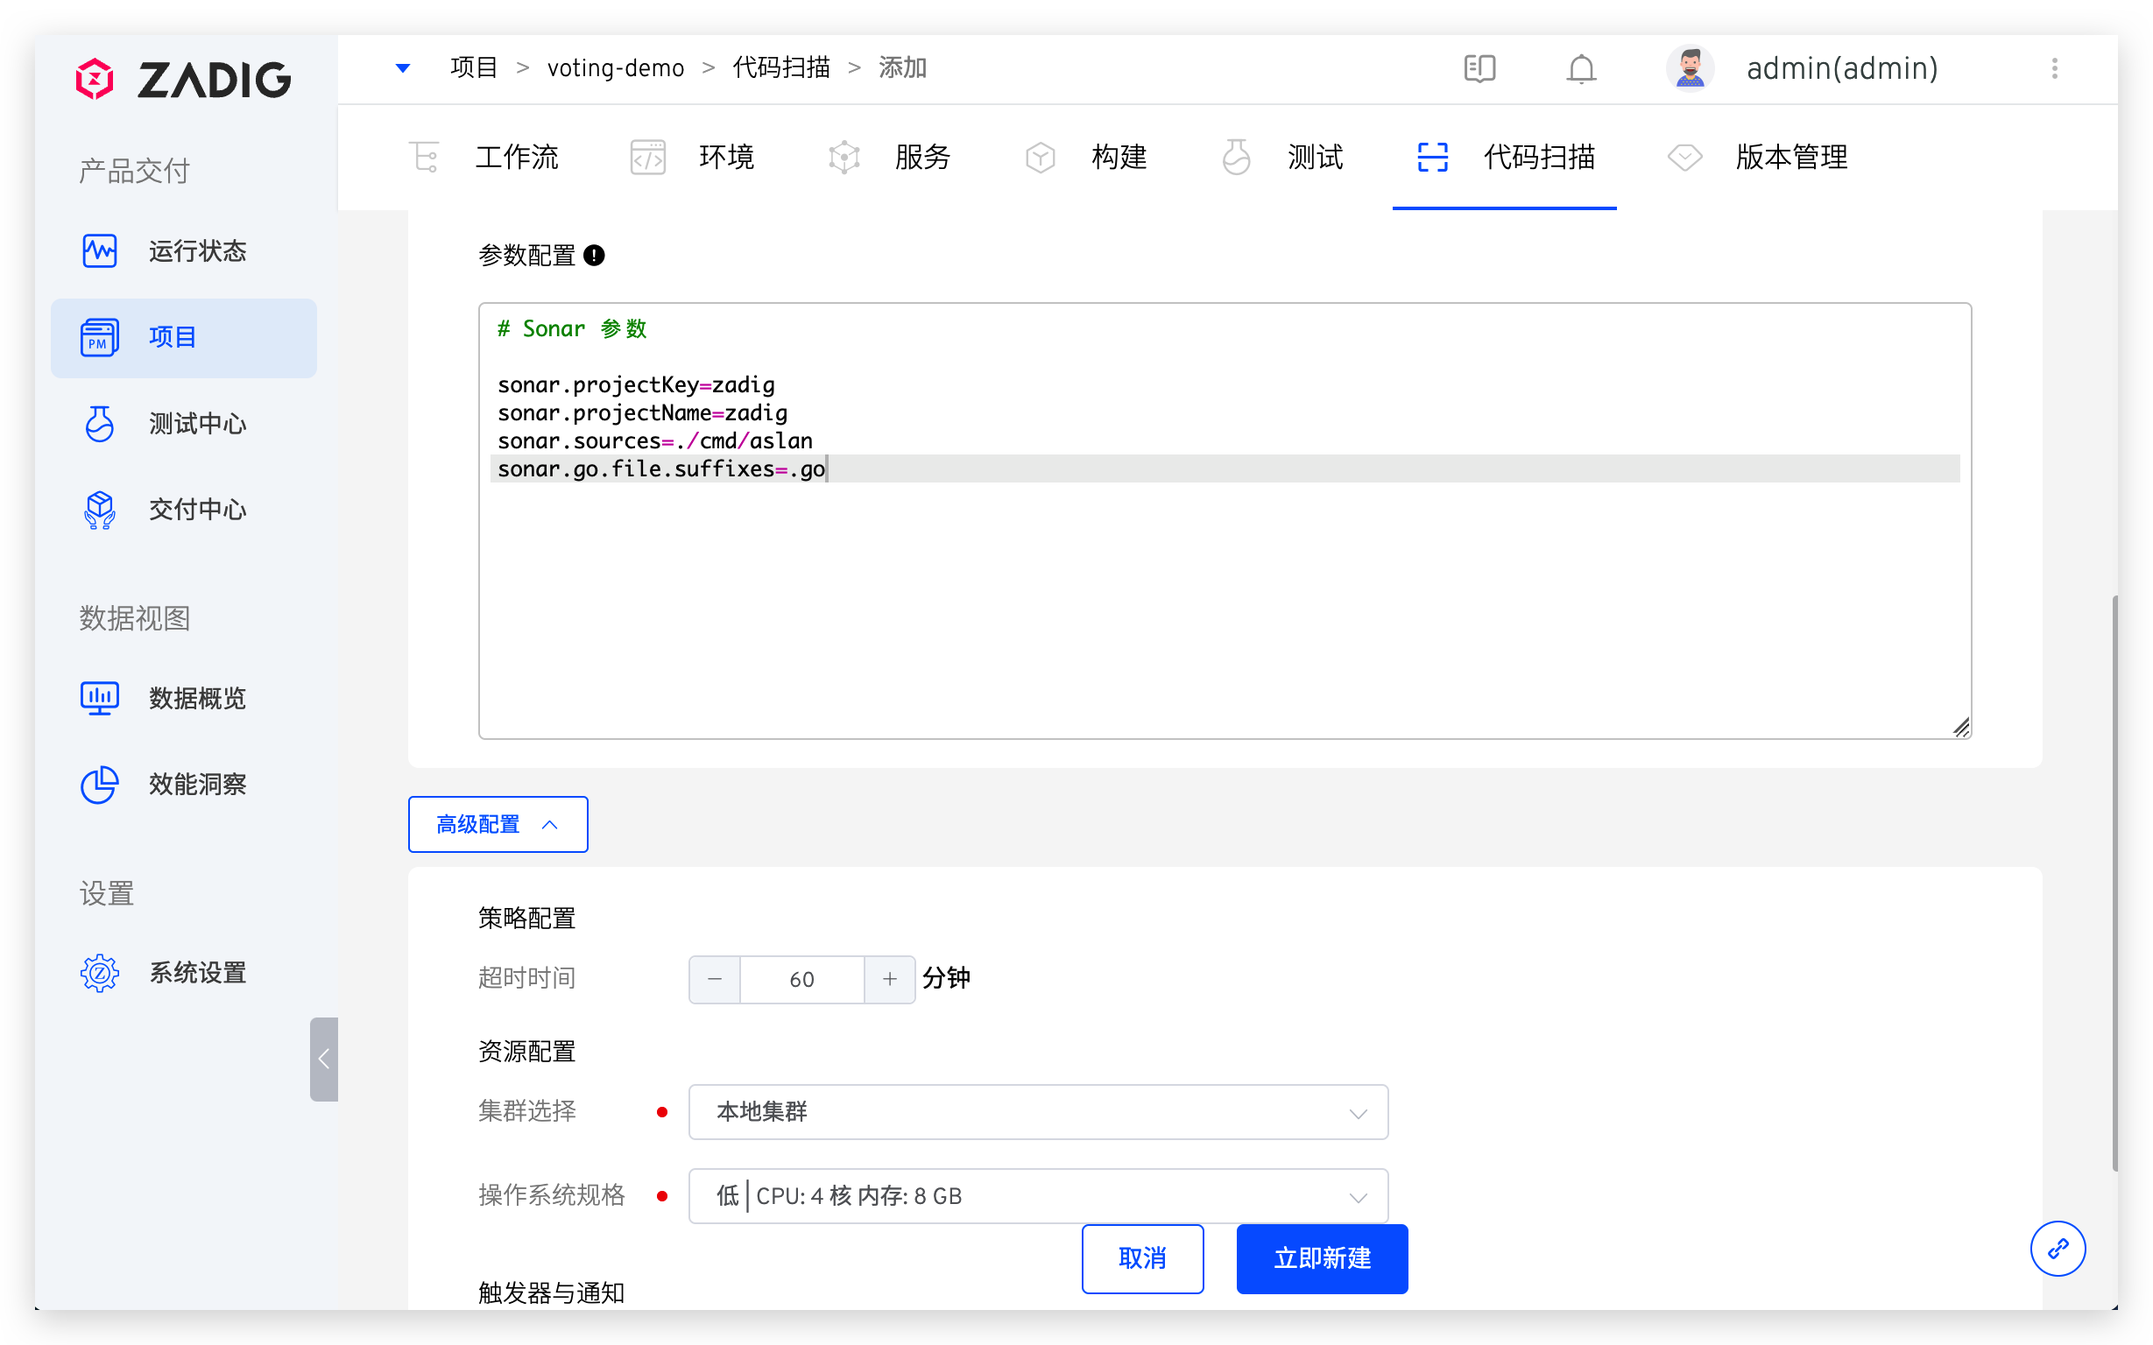
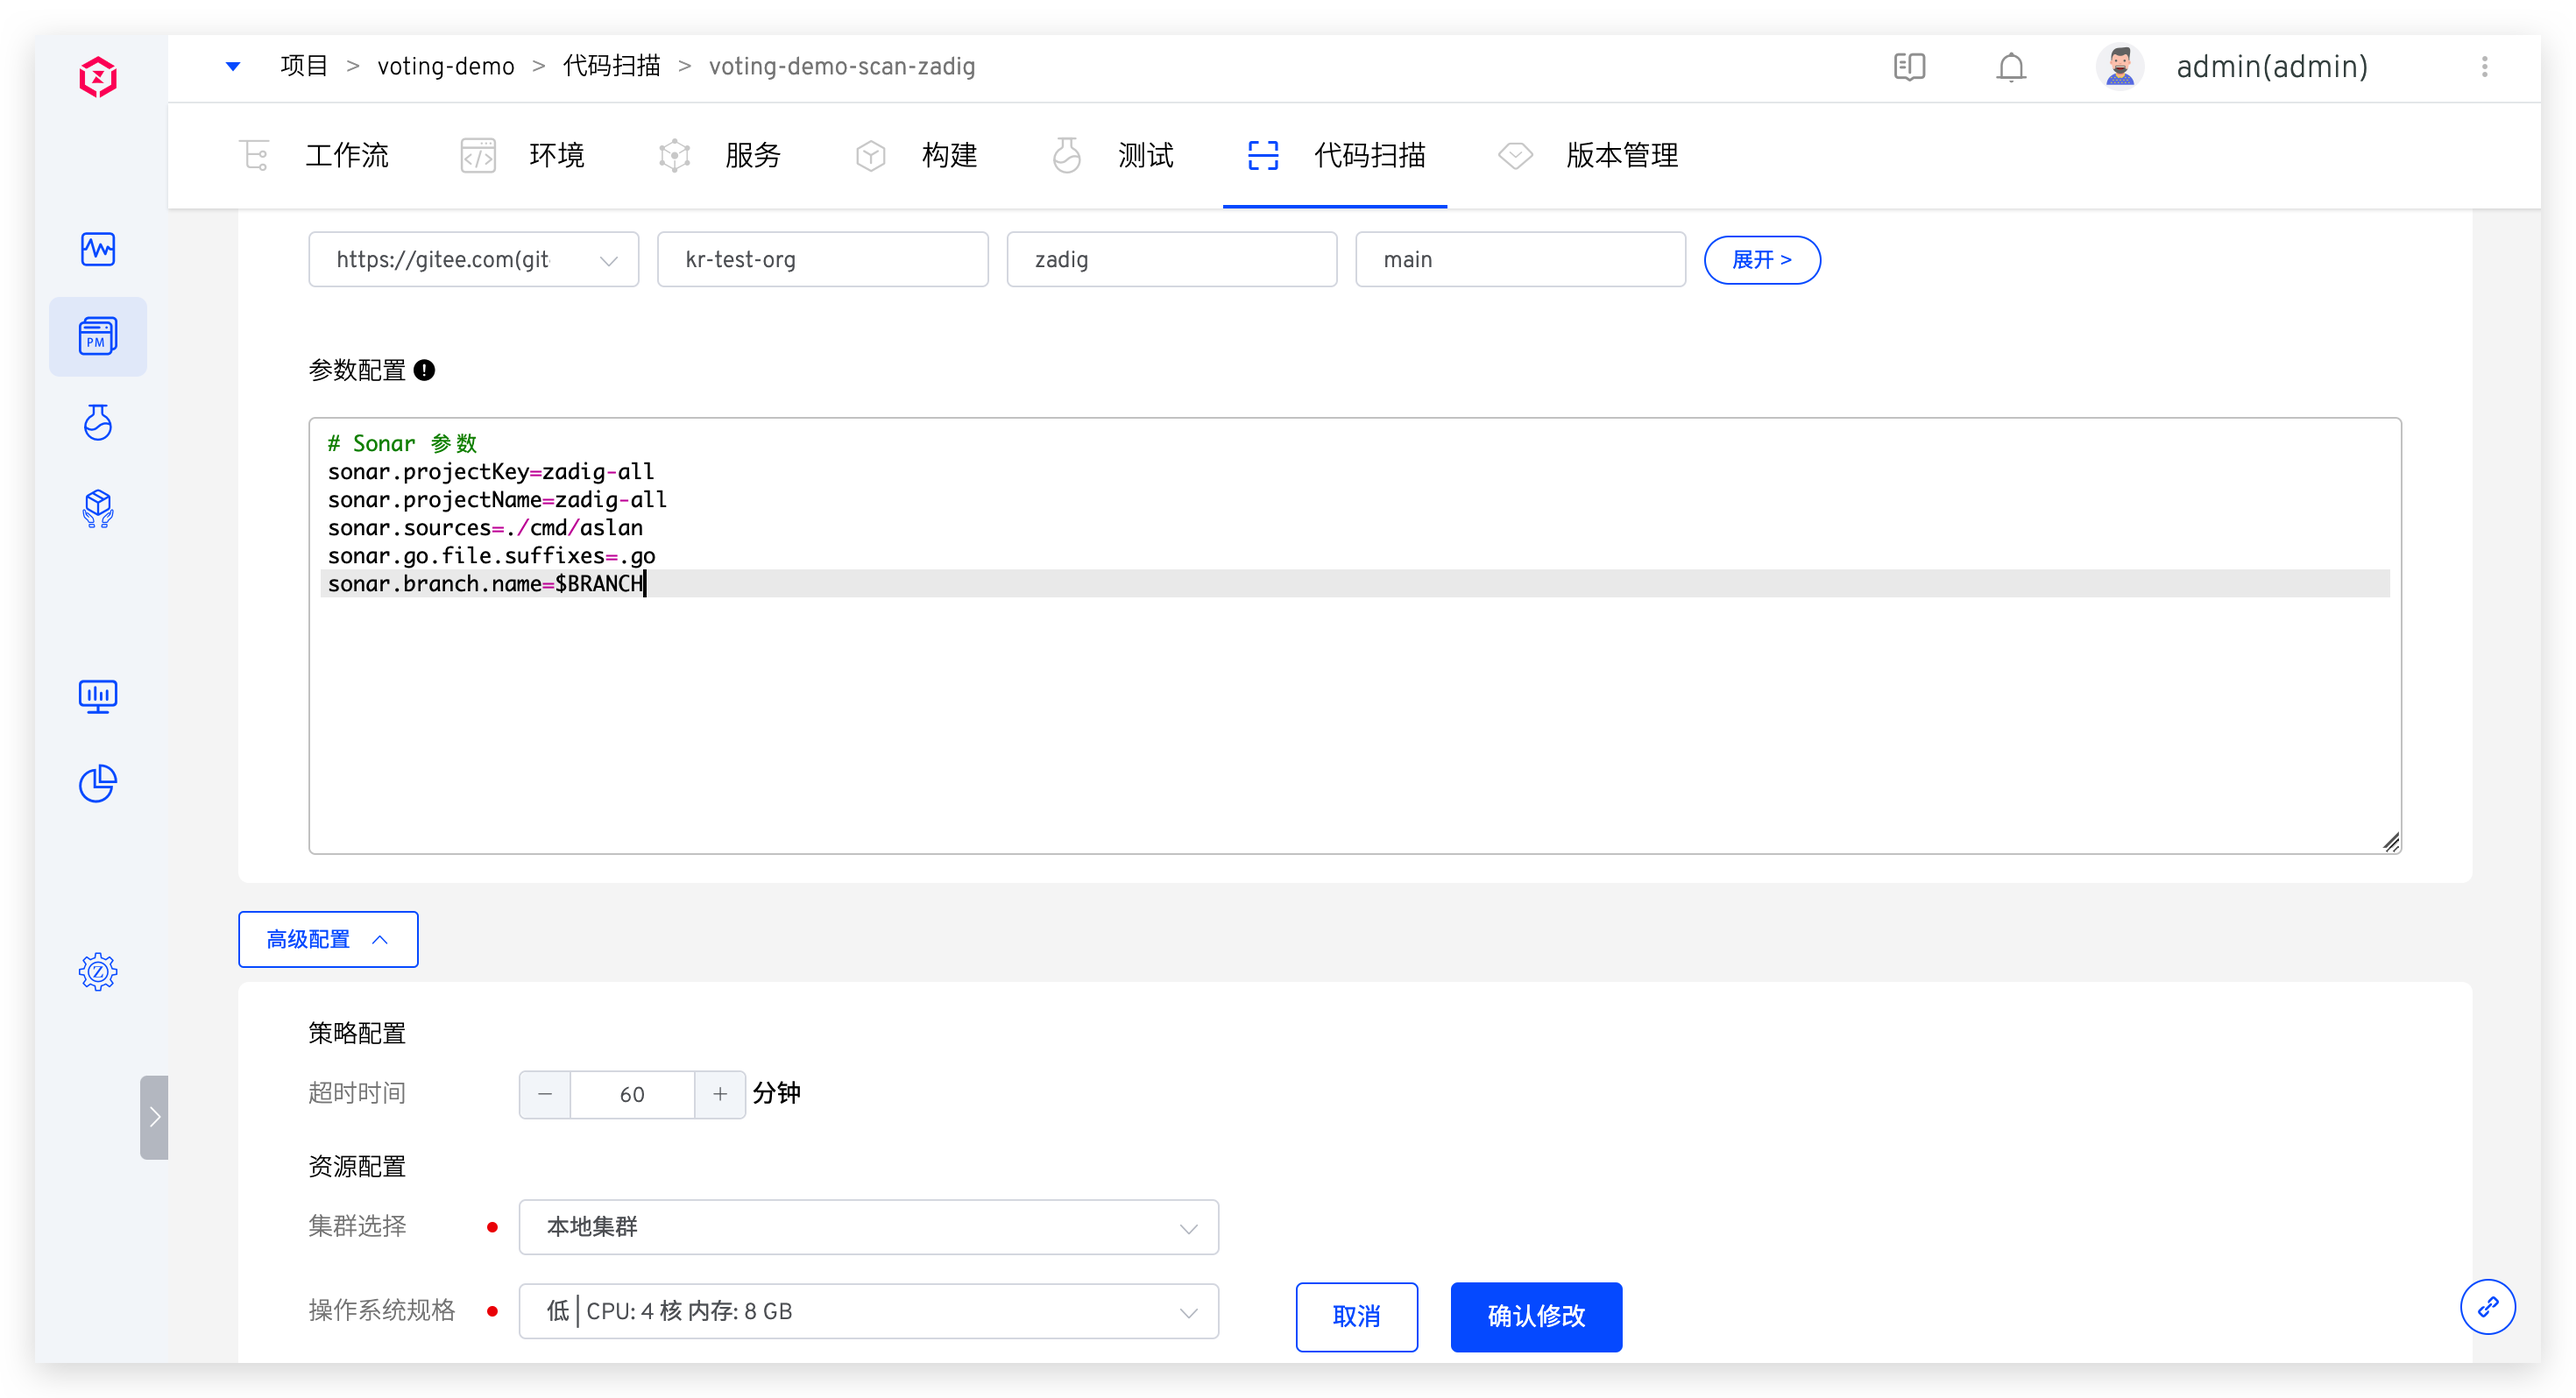
support $BRANCH for sonarqube

diff --git a/dev/04.项目/07.scan.md b/dev/04.项目/07.scan.md
@@ -44,6 +44,8 @@ permalink: /dev/project/scan/
 
 使用 `SonarQube` 工具进行代码扫描时配置的相关参数，其中 `sonar.host.url` 和 `sonar.login` 无需配置，在执行代码扫描时系统会自动注入。更多参数配置可参考 [SonarQube 文档](https://docs.sonarqube.org/latest/analysis/analysis-parameters/)。
 
+> 若扫描环境为 `sonar`，则参数配置中可使用 `$BRANCH` 变量获取当前被扫描代码库的分支信息。
+
 ![代码扫描配置](./_images/sonar_parameter_config.png)
 
 ### 高级配置
